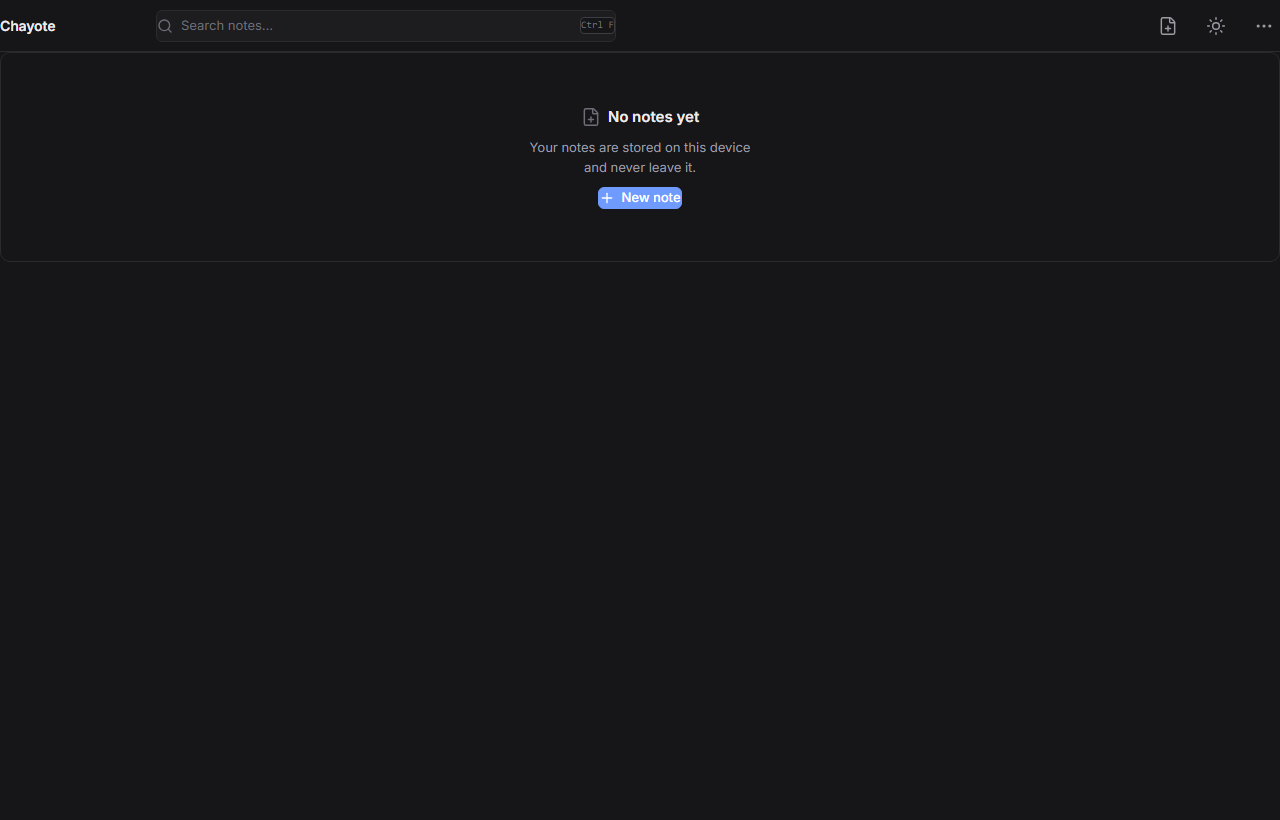
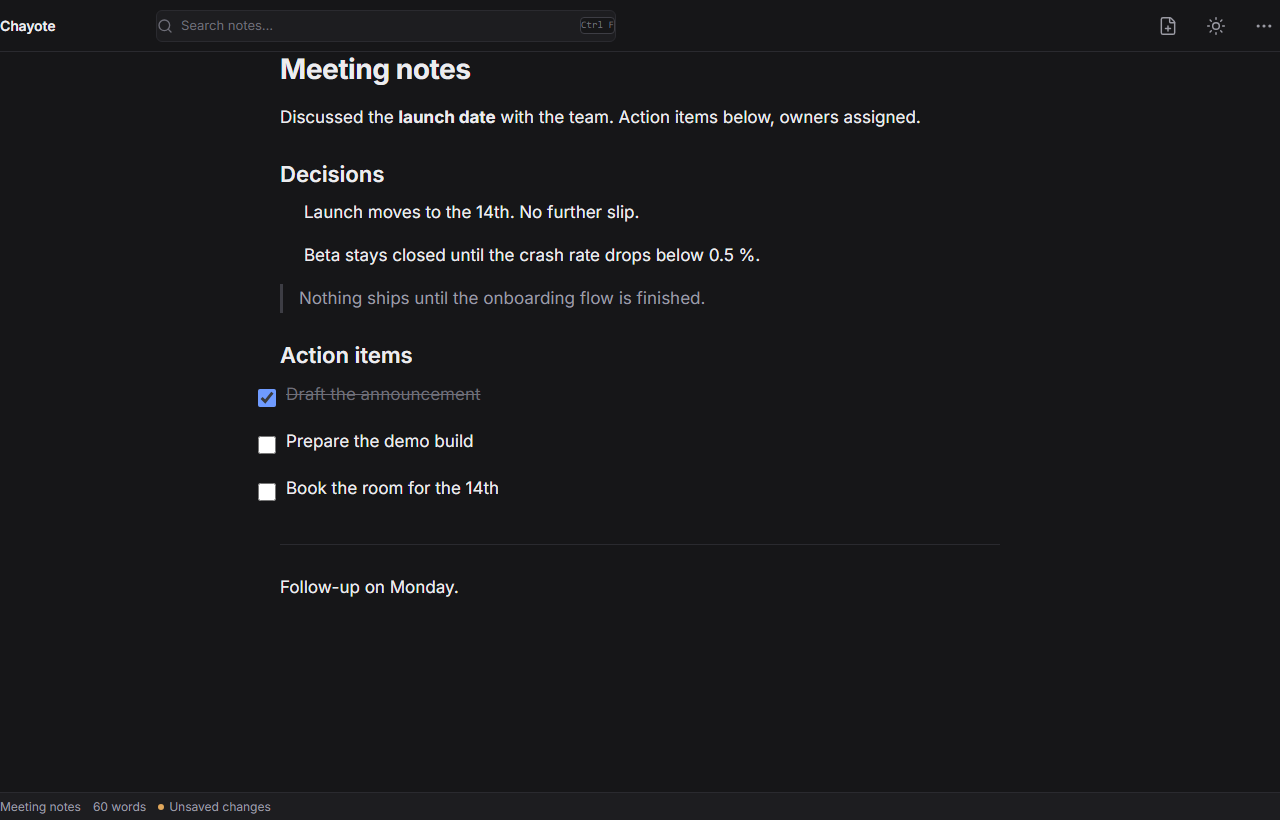
test(editor): drive typing, input rules, paste and autosave in a real browser

diff --git a/e2e/editor.spec.ts b/e2e/editor.spec.ts
@@ -1,0 +1,253 @@
+import { expect, test } from '@playwright/test';
+import type { Locator, Page } from '@playwright/test';
+
+/* `04-editor.md` §3 and §5, driven with real keystrokes. Input rules and smart
+   typography only fire on typed input, so they cannot be checked with a
+   programmatic insert — that is what this file is for. */
+
+const RICH_NOTE = '01980000-0000-7000-8000-000000000001';
+
+async function openRichNote(page: Page): Promise<void> {
+  await page.addInitScript((id) => {
+    window.localStorage.setItem(
+      'settings.json',
+      JSON.stringify({ theme: 'light', lastNoteId: id, lastSelection: { kind: 'all' } }),
+    );
+  }, RICH_NOTE);
+  await page.goto('/');
+  await expect(page.getByRole('textbox', { name: 'Note content' })).toBeVisible();
+}
+
+/* Chromium does not move a contenteditable caret with Ctrl+End. Clicking the
+   last block and pressing Enter puts the caret in a fresh empty paragraph, which
+   is also what markdown input rules need: they only fire at the start of a text
+   block. */
+async function caretToNewBlock(page: Page, editor: Locator): Promise<void> {
+  await editor.locator(':scope > *').last().click();
+  await page.keyboard.press('End');
+  await page.keyboard.press('Enter');
+}
+
+test('renders the fixture document with every block in the schema', async ({ page }) => {
+  await openRichNote(page);
+  const editor = page.getByRole('textbox', { name: 'Note content' });
+
+  await expect(editor.locator('h1')).toHaveText('Meeting notes');
+  await expect(editor.locator('h2').first()).toHaveText('Decisions');
+  await expect(editor.locator('ul').first()).toBeVisible();
+  await expect(editor.locator('blockquote')).toBeVisible();
+  await expect(editor.locator('ul[data-type="taskList"]')).toBeVisible();
+  await expect(editor.locator('hr')).toBeVisible();
+  await expect(editor.locator('a')).toHaveCount(0);
+});
+
+test('shows the derived title and word count in the status bar', async ({ page }) => {
+  await openRichNote(page);
+
+  await expect(page.getByTestId('word-count')).toContainText('words');
+  await expect(page.locator('section[aria-label="Editor"]')).toContainText('Meeting notes');
+});
+
+test('turns markdown input rules into nodes', async ({ page }) => {
+  await openRichNote(page);
+  const editor = page.getByRole('textbox', { name: 'Note content' });
+  await caretToNewBlock(page, editor);
+
+  await page.keyboard.type('## Typed heading');
+  await expect(editor.locator('h2').last()).toHaveText('Typed heading');
+
+  await page.keyboard.press('Enter');
+  await page.keyboard.type('- first bullet');
+  await expect(editor.locator('ul li').last()).toHaveText('first bullet');
+
+  await page.keyboard.press('Enter');
+  await page.keyboard.press('Enter');
+  await page.keyboard.type('1. ordered item');
+  await expect(editor.locator('ol li').last()).toHaveText('ordered item');
+
+  await page.keyboard.press('Enter');
+  await page.keyboard.press('Enter');
+  await page.keyboard.type('> quoted line');
+  await expect(editor.locator('blockquote').last()).toHaveText('quoted line');
+});
+
+test('applies smart typography outside code and leaves it inside code', async ({ page }) => {
+  await openRichNote(page);
+  const editor = page.getByRole('textbox', { name: 'Note content' });
+  await caretToNewBlock(page, editor);
+
+  await page.keyboard.type('wait... really');
+  await expect(editor).toContainText('…');
+
+  await page.keyboard.press('Enter');
+  await page.keyboard.type('```');
+  await page.keyboard.press('Enter');
+  await page.keyboard.type('kept... verbatim');
+
+  await expect(editor.locator('pre code')).toContainText('kept... verbatim');
+  await expect(editor.locator('pre code')).not.toContainText('…');
+});
+
+test('applies the four marks from 05-ui-ux.md §7', async ({ page }) => {
+  await openRichNote(page);
+  const editor = page.getByRole('textbox', { name: 'Note content' });
+  await caretToNewBlock(page, editor);
+  await page.keyboard.type('marked');
+
+  /* A double click does not move ProseMirror's selection under Playwright;
+     walking left with Shift does. */
+  for (let i = 0; i < 12; i += 1) {
+    await page.keyboard.press('Shift+ArrowLeft');
+  }
+
+  for (const [selector, key] of [
+    ['strong', 'b'],
+    ['em', 'i'],
+    ['s, strike, del', 'Shift+X'],
+    ['code', 'e'],
+  ] as const) {
+    await page.keyboard.press(`Control+${key}`);
+    await expect(editor.locator(selector).last()).toContainText('marked');
+    await page.keyboard.press(`Control+${key}`);
+  }
+});
+
+test('saves after the 800 ms debounce and reports Saved', async ({ page }) => {
+  await openRichNote(page);
+  const editor = page.getByRole('textbox', { name: 'Note content' });
+  await caretToNewBlock(page, editor);
+  await page.keyboard.type('debounced change');
+
+  await expect(page.getByTestId('save-state')).toHaveText('Unsaved changes');
+  await expect(page.getByTestId('save-state')).toHaveText('Saved', { timeout: 5_000 });
+});
+
+test('Ctrl+S flushes without waiting for the debounce', async ({ page }) => {
+  await openRichNote(page);
+  const editor = page.getByRole('textbox', { name: 'Note content' });
+  await caretToNewBlock(page, editor);
+  await page.keyboard.type('flushed now');
+
+  await expect(page.getByTestId('save-state')).toHaveText('Unsaved changes');
+  await page.keyboard.press('Control+s');
+  await expect(page.getByTestId('save-state')).toHaveText('Saved');
+});
+
+test('Tab inserts two spaces in a paragraph and never leaves the editor', async ({ page }) => {
+  await openRichNote(page);
+  const editor = page.getByRole('textbox', { name: 'Note content' });
+  await caretToNewBlock(page, editor);
+  await page.keyboard.type('plain text');
+
+  await page.keyboard.press('Tab');
+
+  await expect(editor).toHaveText(/plain text {2}/);
+  await expect(editor).toBeFocused();
+});
+
+test('toggles a task item with Ctrl+Enter', async ({ page }) => {
+  const errors: string[] = [];
+  page.on('pageerror', (error) => errors.push(error.message));
+
+  await openRichNote(page);
+  const editor = page.getByRole('textbox', { name: 'Note content' });
+  await editor.locator('ul[data-type="taskList"] li').last().click();
+
+  await page.keyboard.press('Control+Enter');
+
+  await expect(editor.locator('ul[data-type="taskList"] li[data-checked="true"]')).toHaveCount(2);
+  expect(errors).toEqual([]);
+});
+
+test('pastes plain text as paragraphs with a hard break for a single newline', async ({ page }) => {
+  await openRichNote(page);
+  const editor = page.getByRole('textbox', { name: 'Note content' });
+  await caretToNewBlock(page, editor);
+
+  await paste(page, { 'text/plain': 'first line\nsecond line\n\nsecond paragraph' });
+
+  const joined = editor.locator('p', { hasText: 'first line' }).last();
+  await expect(joined.locator('br')).toHaveCount(1);
+  await expect(joined).toContainText('first line');
+  await expect(joined).toContainText('second line');
+  await expect(editor.locator('p', { hasText: 'second paragraph' }).last()).toBeVisible();
+});
+
+test('does not let pasted script, style, or href into the document', async ({ page }) => {
+  await openRichNote(page);
+  const editor = page.getByRole('textbox', { name: 'Note content' });
+  await caretToNewBlock(page, editor);
+
+  await paste(page, {
+    'text/html':
+      '<p style="color:red">kept</p><script>window.__pwned = true</script><a href="javascript:alert(1)">bad</a>',
+    'text/plain': 'kept',
+  });
+
+  await expect(editor).toContainText('kept');
+  expect(await page.evaluate(() => (window as { __pwned?: boolean }).__pwned)).toBeUndefined();
+  await expect(editor.locator('script')).toHaveCount(0);
+  await expect(editor.locator('a')).toHaveCount(0);
+});
+
+test('keeps a pasted list a list and a pasted heading a heading', async ({ page }) => {
+  await openRichNote(page);
+  const editor = page.getByRole('textbox', { name: 'Note content' });
+  await caretToNewBlock(page, editor);
+
+  await paste(page, {
+    'text/html': '<h2>Pasted heading</h2><ul><li>one</li><li>two</li></ul>',
+    'text/plain': 'Pasted heading\none\ntwo',
+  });
+
+  await expect(editor.locator('h2').last()).toHaveText('Pasted heading');
+  await expect(editor.locator('ul li').last()).toHaveText('two');
+});
+
+test('ignores a paste that would insert nothing', async ({ page }) => {
+  await openRichNote(page);
+  const editor = page.getByRole('textbox', { name: 'Note content' });
+  await caretToNewBlock(page, editor);
+  await page.keyboard.type('untouched');
+
+  const before = await editor.innerHTML();
+  await paste(page, { 'text/plain': '   ' });
+  await paste(page, { 'text/html': '<div><span></span></div>', 'text/plain': '' });
+
+  await expect(editor).toHaveText(/untouched$/);
+  expect(await editor.innerHTML()).toBe(before);
+});
+
+test('undo does not reach back into another note', async ({ page }) => {
+  await openRichNote(page);
+  const editor = page.getByRole('textbox', { name: 'Note content' });
+  await caretToNewBlock(page, editor);
+  await page.keyboard.type('edited in place');
+
+  await page.keyboard.press('Control+z');
+
+  await expect(editor).not.toContainText('edited in place');
+  await expect(editor).toContainText('Discussed the launch date');
+});
+
+test('a new note carries the placeholder and no content', async ({ page }) => {
+  await page.goto('/');
+  await page.getByRole('button', { name: 'New note' }).first().click();
+
+  const editor = page.getByRole('textbox', { name: 'Note content' });
+  await expect(editor.locator('[data-placeholder]')).toHaveAttribute(
+    'data-placeholder',
+    'Write something…',
+  );
+});
+
+async function paste(page: Page, flavours: Record<string, string>): Promise<void> {
+  await page.evaluate((data) => {
+    const node = document.querySelector<HTMLElement>('[data-testid="note-editor"]');
+    if (node === null) throw new Error('editor missing');
+    node.focus();
+    const transfer = new DataTransfer();
+    for (const [type, value] of Object.entries(data)) transfer.setData(type, value);
+    node.dispatchEvent(new ClipboardEvent('paste', { clipboardData: transfer, bubbles: true }));
+  }, flavours);
+}

diff --git a/e2e/smoke.spec.ts b/e2e/smoke.spec.ts
@@ -1,6 +1,11 @@
 import { expect, test } from '@playwright/test';
 
-test('loads the empty app at 1280x820 with no console errors', async ({ page }) => {
+/* The M0 shell is the top bar plus a first-launch empty state. M2 adds the
+   editor, so the smoke test drives one real note rather than a placeholder. */
+
+const RICH_NOTE = '01980000-0000-7000-8000-000000000001';
+
+test('loads the shell at 1280x820 with no console errors', async ({ page }) => {
   const errors: string[] = [];
   page.on('console', (message) => {
     if (message.type() === 'error') errors.push(message.text());
@@ -11,8 +16,31 @@ test('loads the empty app at 1280x820 with no console errors', async ({ page }) 
 
   await expect(page.getByRole('banner')).toBeVisible();
   await expect(page.getByRole('searchbox', { name: 'Search notes' })).toBeVisible();
-  await expect(page.getByText('No notes yet')).toBeVisible();
-  await expect(page.getByRole('main').getByRole('button', { name: 'New note' })).toBeVisible();
+  await expect(page.getByRole('main')).toBeVisible();
+  await expect(page.getByRole('button', { name: 'New note' }).first()).toBeVisible();
 
   expect(errors).toEqual([]);
+});
+
+test('opens a created note in the editor', async ({ page }) => {
+  await page.goto('/');
+  await page.getByRole('button', { name: 'New note' }).first().click();
+
+  await expect(page.getByRole('textbox', { name: 'Note content' })).toBeVisible();
+  await expect(page.getByTestId('save-state')).toHaveText('Saved');
+});
+
+test('restores the last open note from settings', async ({ page }) => {
+  await page.addInitScript((id) => {
+    window.localStorage.setItem(
+      'settings.json',
+      JSON.stringify({ theme: 'light', lastNoteId: id, lastSelection: { kind: 'all' } }),
+    );
+  }, RICH_NOTE);
+
+  await page.goto('/');
+
+  await expect(page.getByRole('textbox', { name: 'Note content' })).toContainText(
+    'Discussed the launch date',
+  );
 });

diff --git a/e2e/capture.spec.ts b/e2e/capture.spec.ts
@@ -1,5 +1,11 @@
 import { expect, test } from '@playwright/test';
 
+/* `11-verification.md` §4 level 2: capture each state at a fixed viewport in both
+   themes into `screenshots/`, which is committed so a reviewer can compare runs
+   by eye. Level 1 assertions live in `smoke.spec.ts` and `editor.spec.ts`. */
+
+const RICH_NOTE = '01980000-0000-7000-8000-000000000001';
+
 const STATES = {
   'desktop-light': { width: 1280, height: 820, scheme: 'light' },
   'desktop-dark': { width: 1280, height: 820, scheme: 'dark' },
@@ -12,8 +18,22 @@ for (const [name, spec] of Object.entries(STATES)) {
     await page.setViewportSize({ width: spec.width, height: spec.height });
     await page.emulateMedia({ colorScheme: spec.scheme });
 
+    await page.addInitScript(
+      ([id, scheme]) => {
+        window.localStorage.setItem(
+          'settings.json',
+          JSON.stringify({
+            theme: scheme,
+            lastNoteId: id,
+            lastSelection: { kind: 'all' },
+          }),
+        );
+      },
+      [RICH_NOTE, spec.scheme] as const,
+    );
+
     await page.goto('/');
-    await expect(page.getByText('No notes yet')).toBeVisible();
+    await expect(page.getByRole('textbox', { name: 'Note content' })).toBeVisible();
     await page.screenshot({ path: `screenshots/${name}.png`, fullPage: false });
   });
 }
